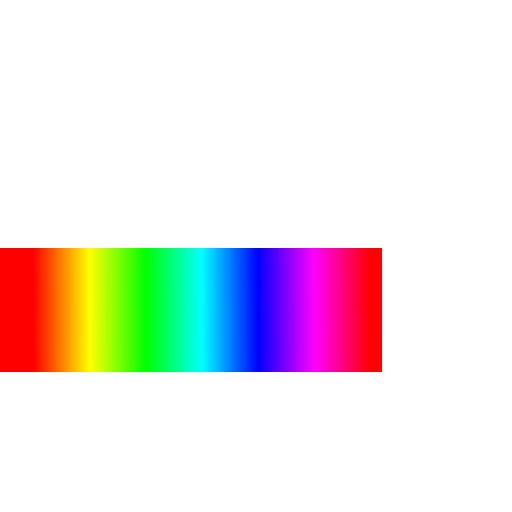
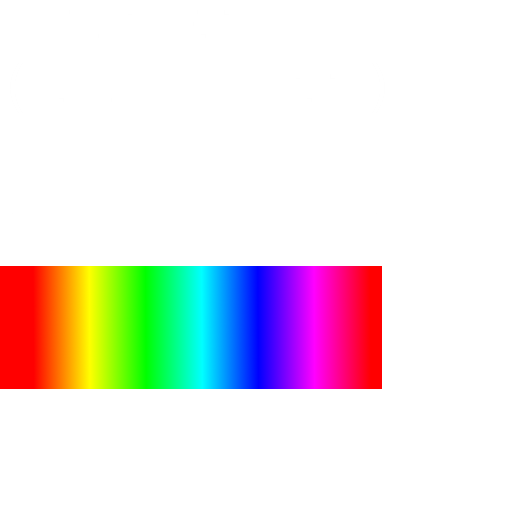
[EXAMPLE-MULTITHREADING] A nice label seems to be working.

Changed region(s): [[0.0, 0.7188, 0.75, 0.7812], [0.0, 0.4688, 0.75, 0.5312]]

diff --git a/examples/multithreading/nodes/background.cpp b/examples/multithreading/nodes/background.cpp
@@ -12,20 +12,24 @@
 #define WIDTH 384
 // A height
 #define HEIGHT 124
+// A period
+#define PERIOD 3.0
 
 DECLARE_SOBJ_INHERITANCE(nodes::Background, sad::SceneNode);
 
 // ========================================== PUBLIC METHODS ==========================================
 
-nodes::Background::Background()
+nodes::Background::Background() : m_t(0)
 {
     m_base_label = new sad::Sprite2D();
     m_rainbow_label1 = new sad::Sprite2D();
     m_rainbow_label2 = new sad::Sprite2D();
+    m_outline_label = new sad::Sprite2D();
 
     m_base_label->addRef();
     m_rainbow_label1->addRef();
     m_rainbow_label2->addRef();
+    m_outline_label->addRef();
 }
 
 nodes::Background::~Background()
@@ -33,24 +37,49 @@ nodes::Background::~Background()
     m_base_label->delRef();
     m_rainbow_label1->delRef();
     m_rainbow_label2->delRef();
+    m_outline_label->delRef();
 }
 
 
 void nodes::Background::render()
 {
-
-    //glColorMask(false, false, false, true);
-    //glBlendFunc(GL_ZERO, GL_SRC_ALPHA);
-
+    // Base label is used as mask
     m_base_label->render();
 
-
-    //glColorMask(true, true, true, true);
+    // Now this is tricky, the rainbow transition effect is modelled 
+    // as two sprites with varying widths
     glBlendFunc(GL_DST_ALPHA, GL_ONE_MINUS_DST_ALPHA);
+
+    m_t += 1.0 / m_base_label->scene()->renderer()->fps();
+    while (m_t > PERIOD)
+    {
+        m_t -= PERIOD;
+    }
+
+    double percents = m_t / PERIOD;
+
+    double x = POSITION_X;
+    double y = POSITION_Y;
+    double width1 = static_cast<double>(static_cast<int>(WIDTH *  percents));
+
+    double tex_width = (1.0 - percents) * m_main_texture_rect.width();
+
+    sad::Rect2D rect1(m_main_texture_rect.p0().x() + tex_width, m_main_texture_rect.p0().y(), m_main_texture_rect.p2().x(), m_main_texture_rect.p2().y());
+    sad::Rect2D rect2(m_main_texture_rect.p0().x(), m_main_texture_rect.p0().y(), m_main_texture_rect.p0().x() + tex_width, m_main_texture_rect.p2().y());
+
+    m_rainbow_label1->setTextureCoordinates(rect1);
+    m_rainbow_label2->setTextureCoordinates(rect2);
+
+    m_rainbow_label1->setArea(sad::Rect2D(x, y, x + width1, y + HEIGHT));
+    m_rainbow_label2->setArea(sad::Rect2D(x + width1, y, x + WIDTH, y + HEIGHT));
 
     m_rainbow_label1->render();
 
+    m_rainbow_label2->render();
+
     glBlendFunc(GL_SRC_ALPHA, GL_ONE_MINUS_SRC_ALPHA);
+
+    m_outline_label->render();
 }
 
 void nodes::Background::rendererChanged()
@@ -58,6 +87,7 @@ void nodes::Background::rendererChanged()
     m_base_label->rendererChanged();
     m_rainbow_label1->rendererChanged();
     m_rainbow_label2->rendererChanged();
+    m_outline_label->rendererChanged();
 
     m_base_label->setTreeName("");
     m_base_label->set("label_base");
@@ -70,14 +100,23 @@ void nodes::Background::rendererChanged()
     m_rainbow_label1->set("label_rainbow");
     m_rainbow_label1->setArea(sad::Rect2D(x, y, x + WIDTH, y + HEIGHT));
 
+    m_rainbow_label2->setTreeName("");
+    m_rainbow_label2->set("label_rainbow");
+    m_rainbow_label2->setArea(sad::Rect2D(x, y, x + WIDTH, y + HEIGHT));
+
     m_main_texture_rect = m_rainbow_label1->textureCoordinates();
+
+    m_outline_label->setTreeName("");
+    m_outline_label->set("label_outline");
+    m_outline_label->setArea(sad::Rect2D(x, y, x + WIDTH, y + HEIGHT - 1));
 }
 
-void nodes::Background::setScene(sad::Scene * scene)
+void nodes::Background::setScene(sad::Scene* scene)
 {
     m_base_label->setScene(scene);
     m_rainbow_label1->setScene(scene);
     m_rainbow_label2->setScene(scene);
+    m_outline_label->setScene(scene);
 }
 
 // ========================================== PRIVATE METHODS ==========================================

diff --git a/examples/multithreading/nodes/background.h b/examples/multithreading/nodes/background.h
@@ -48,9 +48,15 @@ private:
     /*! A second rainbow texture to fit for label
      */
     sad::Sprite2D* m_rainbow_label2;
+    /*! An outline label
+     */
+    sad::Sprite2D* m_outline_label;
     /*! A main texture rectangle
      */
     sad::Rect2D m_main_texture_rect;
+    /*! An inner time for background
+     */
+    double m_t;
 };
 
 }
